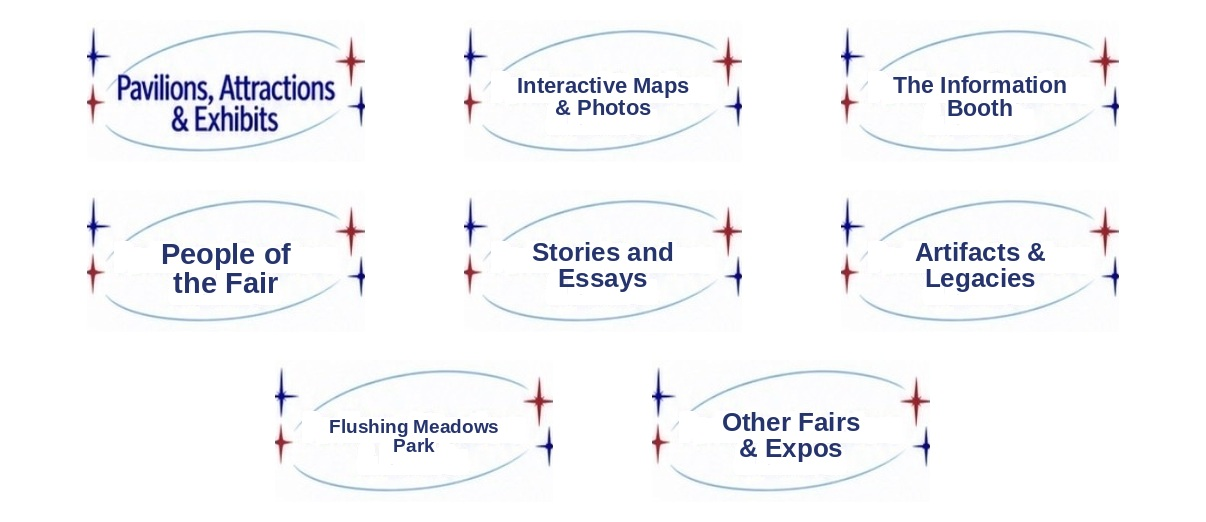
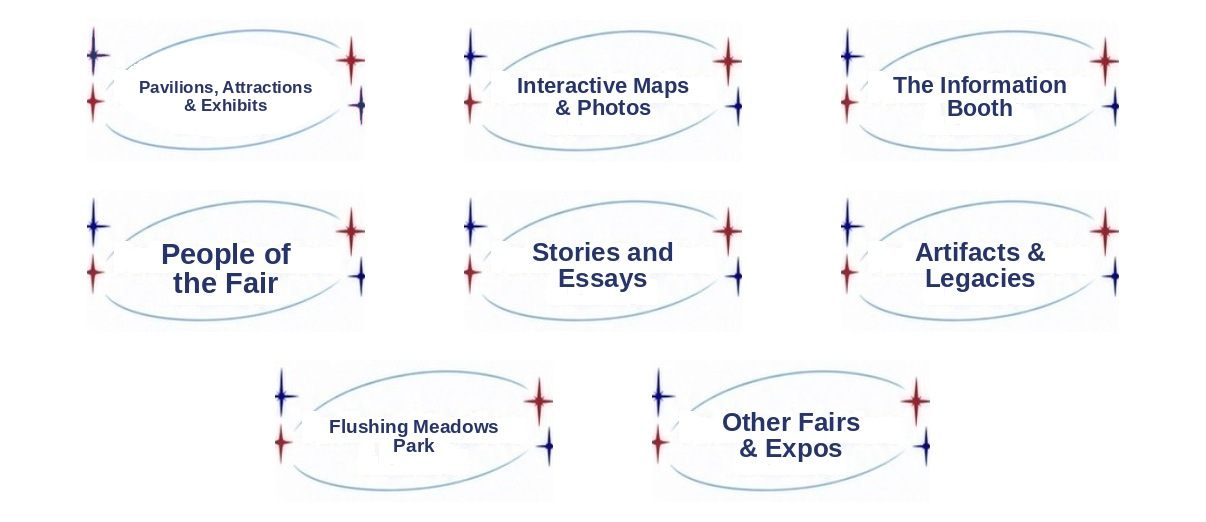
Match Attractions homepage hub label font to other cards
Redraw the Pavilions, Attractions & Exhibits oval text in the same bold
sans style and navy/burgundy colors used by the other Explore hubs, and
regenerate the Attractions hover crop to match.

diff --git a/public/images/ATTRIBUTION.md b/public/images/ATTRIBUTION.md
@@ -6,8 +6,8 @@
 |------|--------|---------|-------|
 | `public/images/people-of-the-fair-links.jpg` | User-provided People links art (exact) | User | `/people` link grid |
 | `public/images/people-hover/*.jpg` | Derived from People links art — burgundy↔navy on text/arrows only; portraits unchanged | User derivative | Hover state for people hotspots |
-| `public/images/hubs-hover/*.jpg` | Hover crops from hubs body; Attractions chrome reused for other labels (burgundy text/stars) | User derivative | Hover state for hub hotspots |
-| `public/images/homepage-hubs-body.jpg` | User hubs art; non-Attractions ovals rebuilt from Attractions chrome (oval+stars) with new labels only | User derivative | Homepage body; hotspots only |
+| `public/images/hubs-hover/*.jpg` | Hover crops from hubs body; shared oval+star chrome with burgundy labels/stars | User derivative | Hover state for hub hotspots |
+| `public/images/homepage-hubs-body.jpg` | User hubs art; all eight ovals share oval+star chrome; Attractions label redrawn to match other hub fonts | User derivative | Homepage body; hotspots only |
 | `public/images/hero-user-provided-sharpened.jpg` | User-provided hero (sharpened; photo+copy+CTA baked in) | User | Homepage hero (exact) |
 | `public/images/unisphere-night-fair.jpg` | Same mockup crop (cache-bust filename used by Hero) | User mockup artwork | Hero |
 | `public/images/unisphere-night.jpg` | Cropped from user ChatGPT mockup (`homepage-chatgpt-mockup.jpg`) — night Unisphere + fountains | User mockup artwork | Hero (restored to match mockup) |
